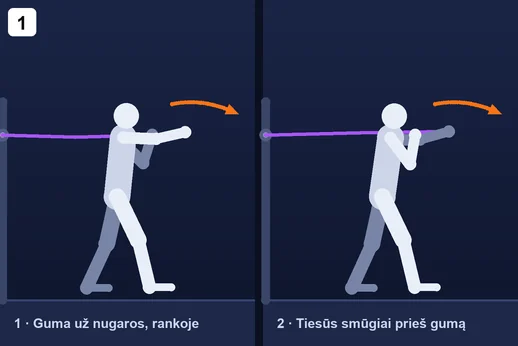
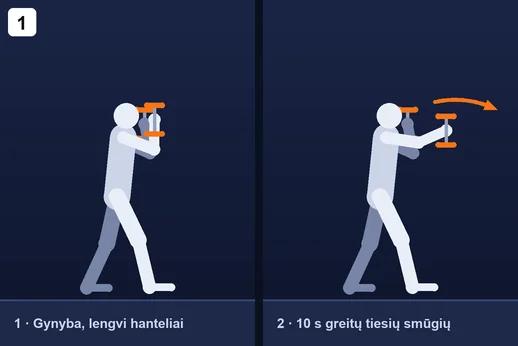
v5: plank timer, band punches replaced, Hard Gym D9 knee holds

diff --git a/tools/add_variants.py b/tools/add_variants.py
@@ -32,9 +32,9 @@ V = {
     "A9": dict(name="Weighted Crunch", tag="su svoriu", sets=3, reps="12–15", restSeconds=45,
                description="Kaip įprastas crunch, tik ant krūtinės laikyk svorio diską ar hantelį. Kelk pečius kontroliuotai ir lėtai leiskis.",
                focus="Trumpa amplitudė, kontrolė."),
-    "B1": dict(name="Banded Rotational Punch", tag="su guma", sets=4, reps="5 / pusė", restSeconds=75,
-               description="Gumą pritvirtink už nugaros peties aukštyje. Kovinė stovėsena: sprogstamai smūgiuok į priekį sukdamas galinę pėdą ir klubus, tada kontroliuotai grįžk.",
-               focus="Jėga iš pėdos ir klubų, greitas smūgis."),
+    "B1": dict(name="Landmine Rotation", tag="landmine", sets=4, reps="5 / pusė", restSeconds=75,
+               description="Vienas štangos galas įremtas į kampą ar landmine laikiklį, kitą laikyk abiem rankomis prieš save. Sukdamas klubus ir galinę pėdą lanku nuleisk galą prie vieno klubo, tada per viršų – prie kito. Rankos beveik tiesios, judesys iš klubų, ne iš rankų.",
+               focus="Sukimo jėga iš pėdų ir klubų, kaip smūgyje."),  # 2026-11-24: was the banded rotational punch
     "B3": dict(name="Band-Assisted Pull-Ups", tag="su guma", sets=4, reps="8–10", restSeconds=90,
                description="Gumos kilpą permesk per skersinį ir perkišk per save, į apačią įstatyk kelį ar pėdą. Prisitrauk iki smakro virš skersinio ir lėtai, pilnai nusileisk. Guma leidžia daugiau kartojimų nei paprasti prisitraukimai: kai lengvai padarai 10, imk plonesnę gumą.",
                focus="Daugiau kartojimų nugarai: mentės žemyn, be siūbavimo."),
@@ -53,7 +53,7 @@ V = {
     "B8": dict(name="Low-to-High Chop (kettlebell)", tag="iš apačios į viršų", sets=3, reps="10 / pusė", restSeconds=60,
                description="Kettlebell abiem rankomis prie išorinės kairio kelio pusės, lengvas pritūpimas. Sukdamas klubus ir liemenį kelk jį įstrižai per kūną virš dešinio peties, galinė pėda pasisuka kartu. Lėtai grąžink tuo pačiu keliu.",
                focus="Rotacija iš klubų, rankos tik laiko svorį."),
-    "B9": dict(name="Side Plank", tag="šoninė", sets=3, reps="30–45 s / pusė", restSeconds=45,
+    "B9": dict(name="Side Plank", tag="šoninė", sets=3, reps="40 s / pusė", restSeconds=45, seconds=40, sides=2,
                description="Atsiremk į dilbį ir pėdos šoną, kūnas tiesus nuo galvos iki kulnų. Klubai aukštai, neleisk jiems nukristi.",
                focus="Tiesi linija, įtemptas šonas."),
     "C1": dict(name="Dumbbell Jump Squat", tag="su hanteliais", sets=4, reps="3", restSeconds=75,
@@ -91,6 +91,7 @@ for day in data["days"]:
         variant = {"id": ex["id"] + "v", "name": v["name"], "tag": v["tag"], "sets": v["sets"], "reps": v["reps"],
                    "restSeconds": v["restSeconds"], "image": f"assets/{day['id']}_{n}v.webp",
                    "description": v["description"], "focus": v["focus"]}
+        variant.update({k: v[k] for k in ("seconds", "sides") if k in v})  # timed variants (Side Plank)
         ex["variants"] = [variant]
         added += 1
 json.dump(data, open(PATH, "w", encoding="utf-8"), ensure_ascii=False, indent=2)

diff --git a/tools/draw_gym.py b/tools/draw_gym.py
@@ -6,8 +6,8 @@ Pictures reused from the Kyokushin program are copied with the right number by t
 import math
 import sys
 
-from draw_exercises import Pic, dumbbell_side, go, side_figure
-from draw_variants import CX, EQUIP, EQUIP_HI, GREY, arc_pts, cable, db_end, limb, lying_view, pulley, rect, side, stand_front, standing_view
+from draw_exercises import FAR, NEAR, W_FOOT, W_SHIN, W_THIGH, Pic, dumbbell_side, go, side_figure
+from draw_variants import CX, EQUIP, EQUIP_HI, GREY, arc_pts, cable, db_end, front, limb, lying_view, pulley, rect, side, stand_front, standing_view
 
 ACC = {"A": (59, 130, 246), "B": (249, 115, 22), "C": (34, 197, 94), "D": (168, 85, 247)}
 
@@ -193,7 +193,47 @@ def gd3():
     pic.save("G_D3.webp")
 
 
-ALL = dict(ga4=ga4, ga5=ga5, ga6=ga6, ga7=ga7, gc2=gc2, gc7=gc7, gd3=gd3)
+def knee_holds(name, caps, arrows):
+    """One-leg stance from the front, the weaker left leg working (on the viewer's right). 1: the mawashi geri chamber,
+    knee forward and out at hip height, turned over, the shin flat out to the side. 2: the uchi position, knee high in
+    front and across the body, the shin hanging. The working leg is drawn again on top: in 2 it is in front of the body."""
+    pic, acc = Pic(), ACC["D"]
+    for i in range(2):
+        standing_view(pic, i)
+        if i == 0:   # lean away from the knee, the working hip a little higher
+            l_hip, r_hip, l_sh, r_sh, head = (CX - 12, 208), (CX + 12, 202), (CX - 34, 156), (CX + 20, 150), (CX - 10, 132)
+            knee, ankle, toe = (CX + 38, 184), (CX + 78, 188), (CX + 89, 190)
+        else:
+            l_hip, r_hip, l_sh, r_sh, head = (CX - 12, 207), (CX + 12, 204), (CX - 30, 155), (CX + 24, 152), (CX - 4, 132)
+            knee, ankle, toe = (CX - 8, 186), (CX - 2, 228), (CX + 1, 239)
+        foot = (CX - 16, 292)
+        front(pic, l_hip, r_hip, l_sh, r_sh, head, foot, ankle, (head[0] - 12, head[1] + 8), (head[0] + 12, head[1] + 4),
+              l_knee=(-4, 0), l_elbow=(-8, 16), r_elbow=(8, 16), r_knee_pt=knee, feet=False)
+        pic.capsule((foot[0] + 2, foot[1] + 4), (foot[0] - 11, foot[1] + 4), W_FOOT + 1, FAR)
+        pic.capsule(r_hip, knee, W_THIGH + 1, NEAR)
+        pic.capsule(knee, ankle, W_SHIN + 1, NEAR)
+        pic.capsule(ankle, toe, W_FOOT + 1, NEAR)
+        if arrows:
+            if i == 0:
+                pic.arrow((CX + 40, 262), (CX + 72, 250), (CX + 66, 214), acc)
+            else:
+                pic.arrow((CX + 34, 262), (CX + 42, 226), (CX + 22, 198), acc)
+        pic.caption(caps[i])
+    pic.badge(9)
+    pic.save(name)
+
+
+def gd9():
+    """Knee holds, 20 s in each position (2026-11-24, his ask)."""
+    knee_holds("G_D9.webp", ("1 · Mawashi: kelias į šoną, 20 s", "2 · Uchi: kelias skersai, 20 s"), False)
+
+
+def gd9v():
+    """The same two positions as raises with a 2 s pause at the top."""
+    knee_holds("G_D9v.webp", ("1 · Kelk į šoną, 2 s viršuje", "2 · Kelk skersai, 2 s viršuje"), True)
+
+
+ALL = dict(ga4=ga4, ga5=ga5, ga6=ga6, ga7=ga7, gc2=gc2, gc7=gc7, gd3=gd3, gd9=gd9, gd9v=gd9v)
 
 if __name__ == "__main__":
     for key in sys.argv[1:] or list(ALL):

diff --git a/tools/draw_variants.py b/tools/draw_variants.py
@@ -349,23 +349,36 @@ def a9v():
 
 # ------------------------------------------------------------------ B day
 def b1v():
+    """Landmine rotation from the front (2026-11-24; replaced the banded rotational punch, whose band rubbed his thumb
+    and shoulders). The bar runs from the anchor on the floor in front of the feet to both hands, which swing from one
+    hip over the top to the other while the back heel turns."""
     pic, acc = Pic(), ACCENT["B"]
-    for i in range(2):
+    piv = (CX, 298)                                           # anchor between the feet
+    for i, sd in enumerate((-1, 1)):                          # sd: the side the hands are on
         standing_view(pic, i)
-        post(pic, 12, 110)
-        anchor = (12, 156)
-        pulley(pic, anchor)
-        if i == 0:
-            j = side((124, 206), (156, 292), (92, 292), (150, 140), (140, 146), torso_ang=84, head_ang=80,
-                     knee=(20, 0), elbow=(0, 18), f_elbow=(0, 18))
-        else:
-            j = side((128, 206), (158, 292), (100, 284), (142, 142), (214, 148), torso_ang=80, head_ang=78,
-                     knee=(20, 0), f_toe=-40, elbow=(0, 18), f_elbow=(0, -6))
-        band(pic, [anchor, (60, 150), j["f_hand"]])
-        side_figure(pic, j)
+        sh = [(CX + sd * 16, 158), (CX - sd * 8, 154)]        # near, far: the turned torso looks narrow
+        hands = [(CX + sd * 36, 190), (CX + sd * 32, 194)]
+        ankles = [(CX + sd * 24, 292), (CX - sd * 22, 287)]   # front foot flat, back heel up
+        knees = [(sd * 10, 0), (sd * 8, 0)]
+        elbows = [(-sd * 10, 10), (sd * 2, 8)]   # near elbow tucked at the hip
+        if sd > 0:                                            # front() takes the viewer's left side first
+            for v in (sh, hands, ankles, knees, elbows):
+                v.reverse()
+        rect(pic, piv[0] - 12, piv[1] - 7, piv[0] + 12, piv[1] + 6, EQUIP_HI)
+        f = front(pic, (CX - 12, 206), (CX + 12, 206), sh[0], sh[1], (CX + sd * 4, 133), ankles[0], ankles[1],
+                  hands[0], hands[1], l_knee=knees[0], r_knee=knees[1], l_elbow=elbows[0], r_elbow=elbows[1])
+        grip = ((f["lh"][0] + f["rh"][0]) / 2, (f["lh"][1] + f["rh"][1]) / 2)
+        dx, dy = grip[0] - piv[0], grip[1] - piv[1]
+        n = (dx * dx + dy * dy) ** 0.5
+        u = (dx / n, dy / n)
+        tip = (grip[0] + u[0] * 12, grip[1] + u[1] * 12)
+        pic.capsule(piv, tip, 4.5, GREY)
+        pic.capsule((grip[0] - u[0] * 5, grip[1] - u[1] * 5), tip, 6.5, EQUIP_HI)
+        for h in (f["lh"], f["rh"]):
+            pic.dot(h, R_HAND + 0.5, NEAR)
         if i:
-            pic.arrow((150, 118), (186, 112), (222, 126), acc)
-        pic.caption("1 · Guma už nugaros" if not i else "2 · Sprogstamas smūgis")
+            pic.arrow((CX - 54, 178), (CX, 34), (CX + 56, 172), acc)
+        pic.caption("1 · Galas prie vieno klubo" if not i else "2 · Lanku per viršų – prie kito")
     pic.badge(1)
     pic.save("B_1v.webp")
 

diff --git a/tools/draw_endurance.py b/tools/draw_endurance.py
@@ -5,9 +5,9 @@ pose is reused by fight_burst).
 Two panels each, same mannequin style. Day colour, corner number and file name are parameters, because the same
 picture sits at different positions in the three programs. Called by tools/add_endurance.py (no CLI of its own).
 """
-from draw_exercises import ACCENT, Pic, bezier, go, side_figure
+from draw_exercises import ACCENT, NEAR, R_HAND, W_FORE, Pic, bezier, go, side_figure
 from draw_more import db_line
-from draw_variants import CX, front, pushup, shadow, side, standing_view
+from draw_variants import CX, ellipse, front, pushup, shadow, side, standing_view
 
 ACC = dict(ACCENT, D=(168, 85, 247))
 
@@ -70,6 +70,34 @@ def punch_out(day, n, name):
         else:
             with_dumbbells(pic, stance(), acc)
             pic.caption("2 · Paskutinės 30 s – gynyba")
+    pic.badge(n)
+    pic.save(name)
+
+
+def plate(pic, c, acc):
+    """A weight plate held upright in both hands, seen from the side and turned a little toward the viewer."""
+    ellipse(pic, c, 9, 26, acc)
+    ellipse(pic, c, 6, 20, tuple(int(v * 0.7) for v in acc))
+    ellipse(pic, c, 2.5, 5, (24, 30, 52))
+
+
+def plate_press(day, n, name):
+    """Plate press-outs (2026-11-24; replaced the banded punch-outs, whose band rubbed his thumb and shoulders): a plate
+    in both hands pushed straight out and back fast, then held at the chin for the last 30 s."""
+    pic, acc = Pic(), ACC[day]
+    for i in range(2):
+        standing_view(pic, i)
+        if i == 0:
+            j, c = stance(((176, 152), (172, 154)), elbow=(0, 4), f_elbow=(0, 4)), (179, 153)
+        else:
+            j, c = stance(((148, 150), (144, 152))), (151, 150)
+        side_figure(pic, j)
+        plate(pic, c, acc)
+        pic.capsule(j["n_elbow"], j["n_hand"], W_FORE, NEAR)  # the near hand grips the rim in front of the plate
+        pic.dot(j["n_hand"], R_HAND, NEAR)
+        if i == 0:
+            pic.arrow((160, 112), (190, 104), (218, 118), acc)
+        pic.caption("1 · 60 s greitų išstūmimų" if i == 0 else "2 · Paskutinės 30 s – prie smakro")
     pic.badge(n)
     pic.save(name)
 
@@ -207,7 +235,7 @@ def climber(day, n, name):
     pic.save(name)
 
 
-POSES = dict(guard=guard, guard_punch=guard_punch, punch_out=punch_out, shadow=shadow_rounds,
+POSES = dict(guard=guard, guard_punch=guard_punch, punch_out=punch_out, plate_press=plate_press, shadow=shadow_rounds,
              fight=lambda d, n, f: fight_burst(d, n, f, "1 · Minutė kovos pagal eigą", "burpee"),
              fight_ext=lambda d, n, f: fight_burst(d, n, f, "1 · Po pauzės – minutė kovos", "burpee"),
              fight_kick=lambda d, n, f: fight_burst(d, n, f, "1 · Minutė kovos pagal eigą", "knee"),

diff --git a/tools/make_hard_gym.py b/tools/make_hard_gym.py
@@ -132,7 +132,7 @@ C = [
                   newv("C", 7, "Overhead Dumbbell Triceps Extension", "virš galvos", 3, "10–12", 60,
                        "Abiem rankom laikyk vieną hantelį virš galvos. Alkūnės į viršų ir arti galvos: lenk rankas, kol hantelis už galvos, tada tiesk aukštyn. Alkūnės nejuda, pilvas įtemptas.",
                        "Ilgoji tricepso galva: stipresnis smūgio užbaigimas.")),
-    with_variants(reuse("B9", "C", 8, 3, "45–60 s", 45), reuse("B9v", "C", 8, 3, "30–45 s / pusė", 45, True)),
+    with_variants(reuse("B9", "C", 8, 3, "45–60 s", 45), reuse("B9v", "C", 8, 3, "40 s / pusė", 45, True)),
 ]
 
 D = [
@@ -149,6 +149,21 @@ D = [
     with_variants(reuse("A3v", "D", 6, 3, "8 / koja", 75), reuse("B10v", "D", 6, 3, "5 / koja", 45, True)),
     with_variants(reuse("C7", "D", 7, 3, "10–12 / pusė", 60), reuse("C7v", "D", 7, 3, "10 / pusė", 60, True)),
     with_variants(reuse("A8", "D", 8, 3, "10 / pusė", 50), reuse("A8v", "D", 8, 3, "10 / pusė", 50, True)),
+    # 2026-11-24, his ask: knee holds in the mawashi geri and uchi positions. The left leg is weaker, so it goes
+    # first and gets the extra set; the timer parts tell him when to change position.
+    with_variants(new("D", 9, "Mawashi + Uchi Knee Hold", 3, "20 + 20 s / koja", 45,
+        "Stovėk ant vienos kojos, rankos gynyboje. 20 s laikyk kelią iškeltą į šoną klubo aukštyje ir pasuktą kaip "
+        "mawashi geri, blauzda lygiagreti grindims. Tada 20 s – kelias priekyje, patrauktas skersai kūno (uchi). "
+        "Kelias kuo aukščiau, liemuo tiesus. Per sunku – lengvai prisilaikyk sienos.",
+        "Aukštesni spyriai: klubo jėga spyrio pozicijose. Kairė silpnesnė, todėl pirma ir gauna papildomą setą.",
+        seconds=40, sides=2, startSide="left", bonusSets=1, noWeight=True,
+        segments=[dict(label="Mawashi geri pozicija", seconds=20), dict(label="Uchi pozicija", seconds=20)]),
+                  newv("D", 9, "Mawashi + Uchi Knee Raises", "dinamiškai", 3, "5 + 5 / koja", 45,
+                       "Stovėk ant vienos kojos, rankos gynyboje. 5 kartus kelk kelią į šoną ir pasuk kaip mawashi "
+                       "geri, viršuje 2 s sulaikyk ir lėtai nuleisk. Tada 5 kartus kelk kelią priekyje skersai kūno "
+                       "(uchi), viršuje irgi 2 s.",
+                       "Klubo jėga ir valdymas spyrio pozicijose, kairė koja pirma.", startSide="left", bonusSets=1,
+                       noWeight=True)),
 ]
 
 UPPER, LOWER = stretches_of["B"], stretches_of["A"]

diff --git a/tools/make_karate_power.py b/tools/make_karate_power.py
@@ -112,9 +112,9 @@ B = [
         "Kovinė stovėsena, rankos gynyboje. 10 s tiesių smūgių (kairė, dešinė) kuo greičiau, kiekvienas smūgis "
         "grįžta į gynybą. Pečiai atsipalaidavę, kvėpuok trumpai.",
         "Smūgių greitis ir rankų grąžinimas.", seconds=10),
-                  newv("B", 1, "Banded Speed Punches", "su guma", 4, "10 s", 50,
-                       "Guma pritvirtinta už nugaros krūtinės aukštyje, kilpos rankose. Kovinė stovėsena: 10 s tiesių smūgių kuo greičiau prieš gumą, kiekvienas grįžta į gynybą.",
-                       "Smūgių greitis prieš pasipriešinimą ir greitesnis rankos grąžinimas.", seconds=10)),
+                  newv("B", 1, "Dumbbell Speed Punches", "lengvi hanteliai", 4, "10 s", 50,
+                       "Lengvi hanteliai (0,5–1 kg) rankose, kovinė stovėsena. 10 s tiesių smūgių kuo greičiau, kiekvienas grįžta į gynybą. Alkūnės smūgio gale neužrakink, pečiai žemyn.",
+                       "Smūgių greitis su svoriu ir greitesnis rankos grąžinimas.", seconds=10)),  # 2026-11-24: was with a band
     with_variants(reuse("B1", "B", 2, 4, "4 / pusė", 90),
                   reuse("C6v", "B", 2, 4, "4 / pusė", 90, True)),
     with_variants(new("B", 3, "Medicine Ball Shot Put", 3, "4 / ranka", 75,
@@ -132,8 +132,8 @@ B = [
                       + FAST,
           focus="Smūgio galia su svoriu: pėda, klubai, ranka viena grandine.", startSide="right"),
                   reuse("B4", "B", 5, 3, "6 / ranka", 90, True)),
-    with_variants(reuse("B1v", "B", 6, 3, "8 / ranka", 60, startSide="left",
-          focus="Smūgio greitis prieš gumą: kairė silpnesnė, todėl pirma."),
+    with_variants(reuse("B1v", "B", 6, 3, "6 / pusė", 60,
+          focus="Sukimo galia smūgiui: sprogstamai iš pėdų ir klubų."),
                   reuse("B8v", "B", 6, 3, "8 / pusė", 60, True)),
     with_variants(reuse("B3", "B", 7, 3, "4", 120, name="Explosive Pull-Ups",
                         description="Iš kabėjimo trauk sprogstamai, kuo greičiau smakras virš skersinio, "

diff --git a/tools/add_endurance.py b/tools/add_endurance.py
@@ -75,11 +75,11 @@ KINDS = {
                          "gynyba su tais pačiais hanteliais, kumščiai prie skruostų. Alkūnės iki galo netiesink, pečiai "
                          "žemyn, iškvėpk su kiekvienu smūgiu. Kai lengva – sunkesni hanteliai (iki 2 kg) arba +15 s.",
              focus="Ištvermė: rankos ištveria kovos tempą ir po to dar laiko gynybą."),
-        dict(name="Banded Punch-Outs", tag="su guma", reps="90 s", seconds=90, noWeight=True, copy="P_B1v.webp",
-             description="Guma pritvirtinta už nugaros krūtinės aukštyje, kilpos rankose. Kol laikmatis rodo daugiau "
-                         "nei 30 s – greiti tiesūs smūgiai prieš gumą be sustojimo, paskutinės 30 s – gynyba, guma "
-                         "įtempta. Pečiai žemyn, iškvėpk su kiekvienu smūgiu.",
-             focus="Ištvermė: smūgiai nesilpnėja kovos gale, gynyba nekrenta."),
+        dict(name="Plate Press-Outs", tag="su disku", reps="90 s", seconds=90, noWeight=True, draw="plate_press",
+             description="Laikyk 2,5–5 kg diską abiem rankomis prie krūtinės. Kol laikmatis rodo daugiau nei 30 s – "
+                         "greitai išstumk diską į priekį ir grąžink be sustojimo, paskutinės 30 s – laikyk jį prie "
+                         "smakro kaip gynybą. Pečiai žemyn, iškvėpk su kiekvienu išstūmimu.",
+             focus="Ištvermė: rankos ir pečiai nesilpsta kovos gale, gynyba nekrenta."),  # 2026-11-24: was with a band
     ),
     "guard": (
         dict(name="Guard Hold (sunkus)", reps="60 s", seconds=60, draw="guard",

diff --git a/tools/draw_more.py b/tools/draw_more.py
@@ -226,25 +226,18 @@ def pa5v():
 
 
 def pb1v():
-    """Banded speed punches: band from a post behind at chest height to the punching hand."""
+    """Speed punches with light dumbbells (2026-11-24; the band version rubbed his thumb and shoulders)."""
+    import draw_endurance as de  # it imports this module, so only here
     pic, acc = Pic(), ACC["B"]
     for i in range(2):
         standing_view(pic, i)
-        post(pic, 14, 120)
-        anchor = (14, 150)
-        pulley(pic, anchor)
         if i == 0:
-            j = side((118, 206), (148, 290), (90, 290), (198, 146), (150, 150), torso_ang=84, head_ang=82,
-                     knee=(18, 0), elbow=(0, 16), f_elbow=(0, 18))
-            band(pic, [anchor, (80, 152), j["f_hand"]])
-            pic.caption("1 · Guma už nugaros, rankoje")
+            de.with_dumbbells(pic, de.stance(), acc)
+            pic.caption("1 · Gynyba, lengvi hanteliai")
         else:
-            j = side((120, 206), (150, 290), (92, 290), (150, 150), (200, 144), torso_ang=82, head_ang=80,
-                     knee=(18, 0), elbow=(0, 18), f_elbow=(0, 6))
-            band(pic, [anchor, (100, 148), j["f_hand"]])
-            pic.caption("2 · Tiesūs smūgiai prieš gumą")
-        side_figure(pic, j)
-        pic.arrow((168, 122), (196, 116), (226, 130), acc)
+            de.with_dumbbells(pic, de.stance(((178, 146), de.GUARD[1]), elbow=(0, 6)), acc)
+            pic.arrow((168, 120), (196, 114), (222, 126), acc)
+            pic.caption("2 · 10 s greitų tiesių smūgių")
     pic.badge(1)
     pic.save("P_B1v.webp")
 
